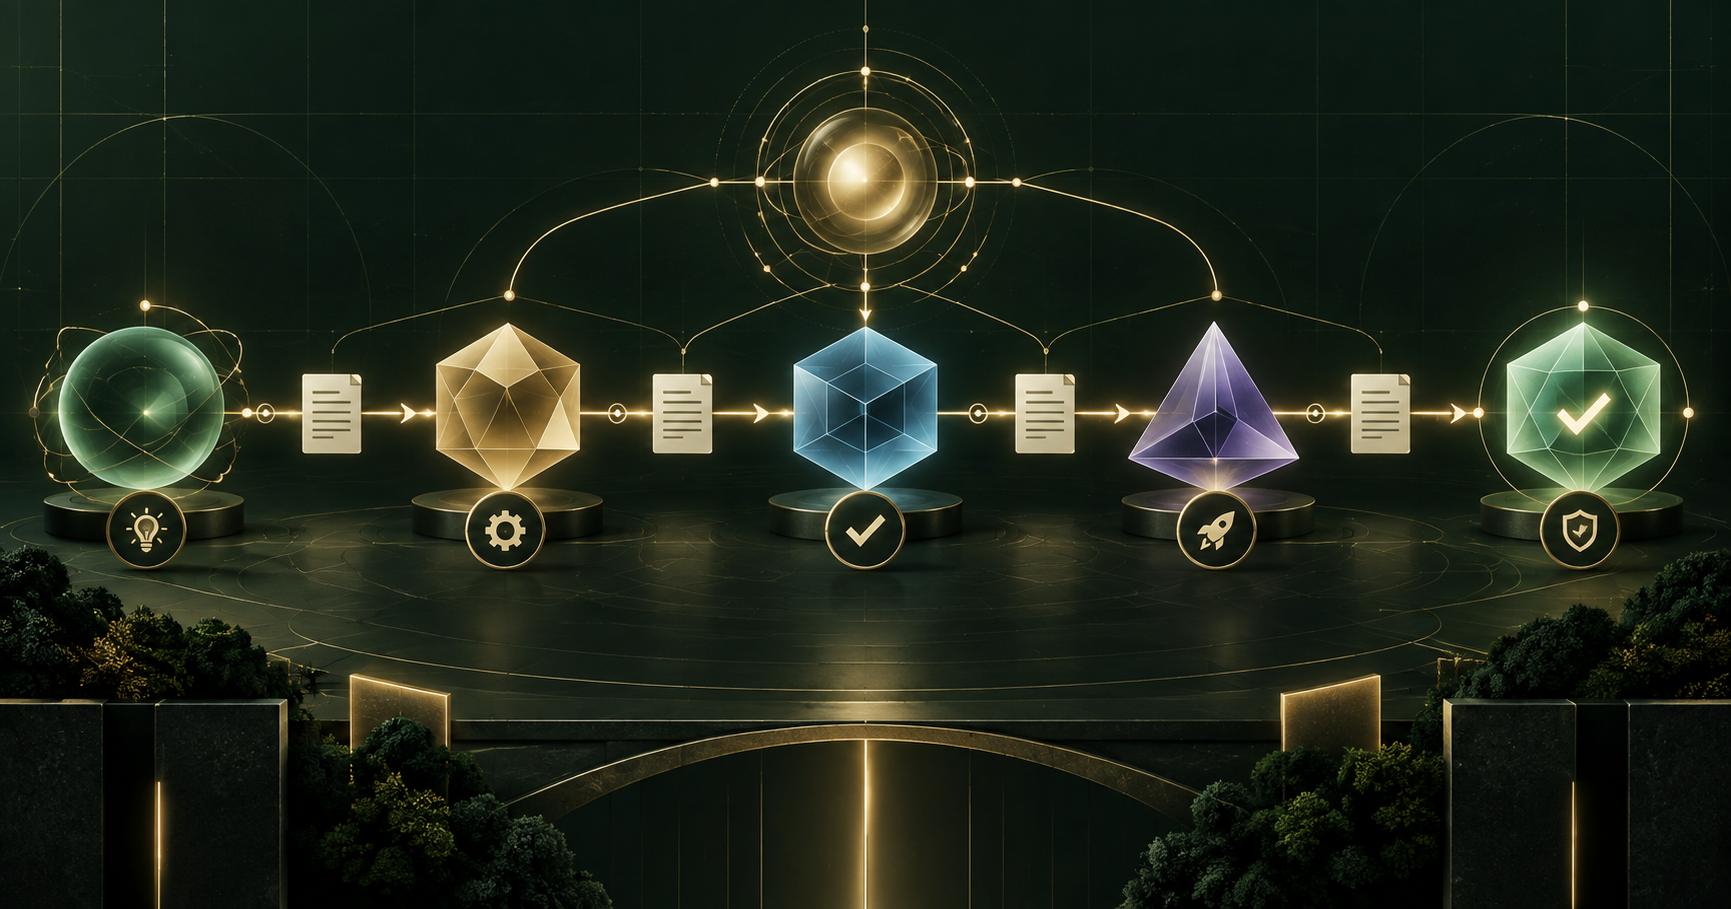
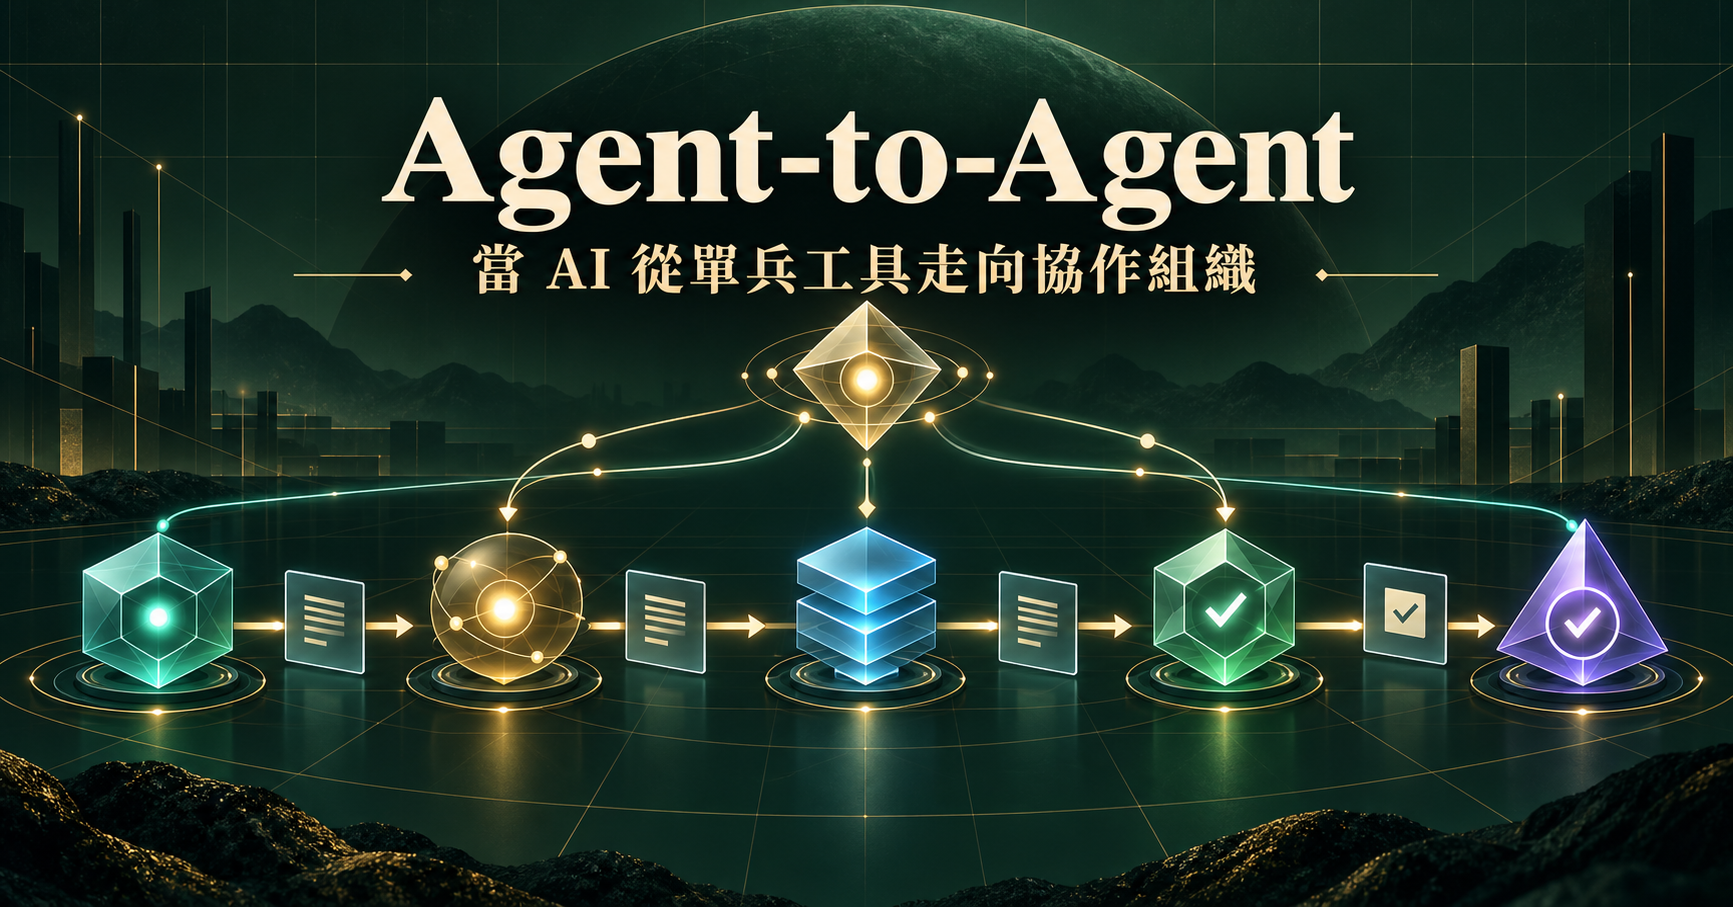
add Chinese title to Agent-to-Agent cover

diff --git a/tech/agent-to-agent-collaboration/index.html b/tech/agent-to-agent-collaboration/index.html
@@ -16,14 +16,14 @@
   <meta property="og:image" content="https://jinweilin.github.io/assets/img/agent-to-agent-cover.png">
   <meta property="og:image:secure_url" content="https://jinweilin.github.io/assets/img/agent-to-agent-cover.png">
   <meta property="og:image:type" content="image/png">
-  <meta property="og:image:width" content="1731">
-  <meta property="og:image:height" content="909">
-  <meta property="og:image:alt" content="五個抽象 AI Agent 節點透過結構化任務與驗證關卡協作">
+  <meta property="og:image:width" content="1733">
+  <meta property="og:image:height" content="907">
+  <meta property="og:image:alt" content="Agent-to-Agent 中文標題與五個抽象 AI Agent 節點的協作流程">
   <meta name="twitter:card" content="summary_large_image">
   <meta name="twitter:title" content="Agent-to-Agent：當 AI 從單兵工具走向協作組織">
   <meta name="twitter:description" content="Agent-to-Agent 的真正價值，不是讓多個 AI 聊天，而是建立可治理的協作流程。">
   <meta name="twitter:image" content="https://jinweilin.github.io/assets/img/agent-to-agent-cover.png">
-  <meta name="twitter:image:alt" content="五個抽象 AI Agent 節點透過結構化任務與驗證關卡協作">
+  <meta name="twitter:image:alt" content="Agent-to-Agent 中文標題與五個抽象 AI Agent 節點的協作流程">
 
   <!-- Google tag (gtag.js) -->
   <script async src="https://www.googletagmanager.com/gtag/js?id=G-0EY36MHX33"></script>
@@ -116,7 +116,7 @@
         <p class="lead">過去使用生成式 AI，通常是一個人對一個模型下指令。但當任務橫跨需求分析、研究、程式開發、測試與部署時，把所有責任交給同一個 Agent，就像要求同一名員工出題、作答，最後再替自己打滿分。</p>
 
         <figure class="article-cover">
-          <img src="../../assets/img/agent-to-agent-cover.png" width="1731" height="909" alt="五個抽象 AI Agent 節點透過結構化任務與驗證關卡協作" fetchpriority="high">
+          <img src="../../assets/img/agent-to-agent-cover.png" width="1733" height="907" alt="Agent-to-Agent 中文標題與五個抽象 AI Agent 節點的協作流程" fetchpriority="high">
           <figcaption>Agent-to-Agent 協作：不同角色透過任務、交付物與驗證關卡完成可靠交接。原創生成圖像。</figcaption>
         </figure>
         <div class="thesis">Agent-to-Agent 的真正價值，不是讓多個 AI 互相聊天，而是把複雜任務拆成有角色、有交付物、有驗收與責任邊界的協作流程。</div>
